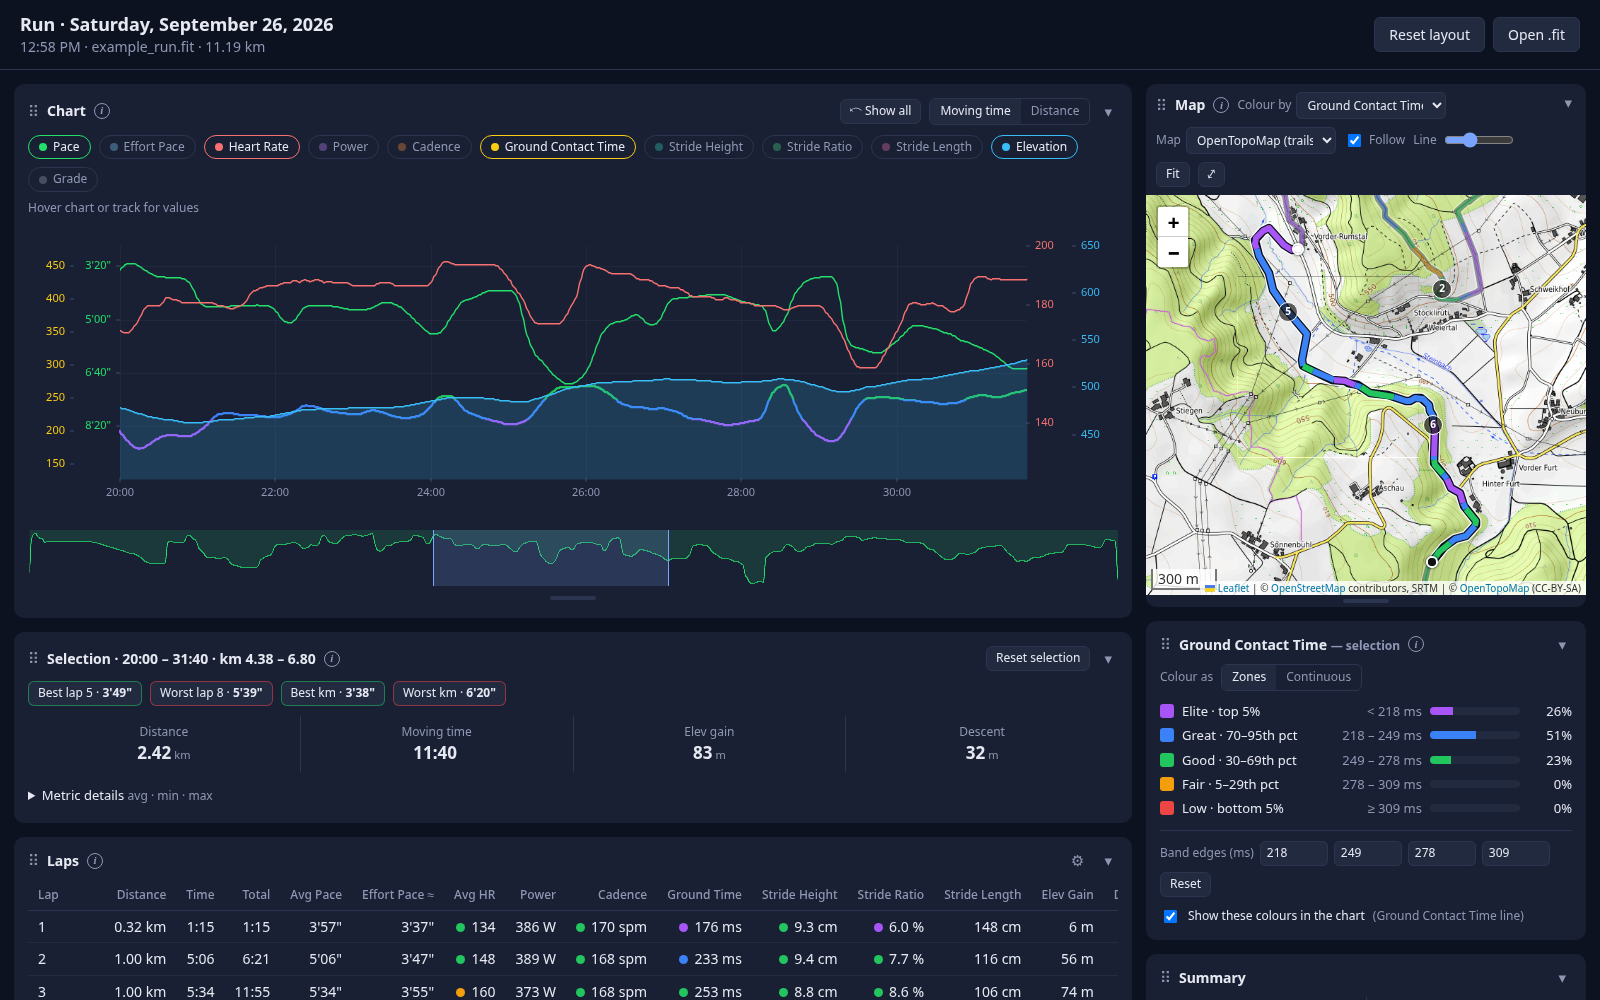
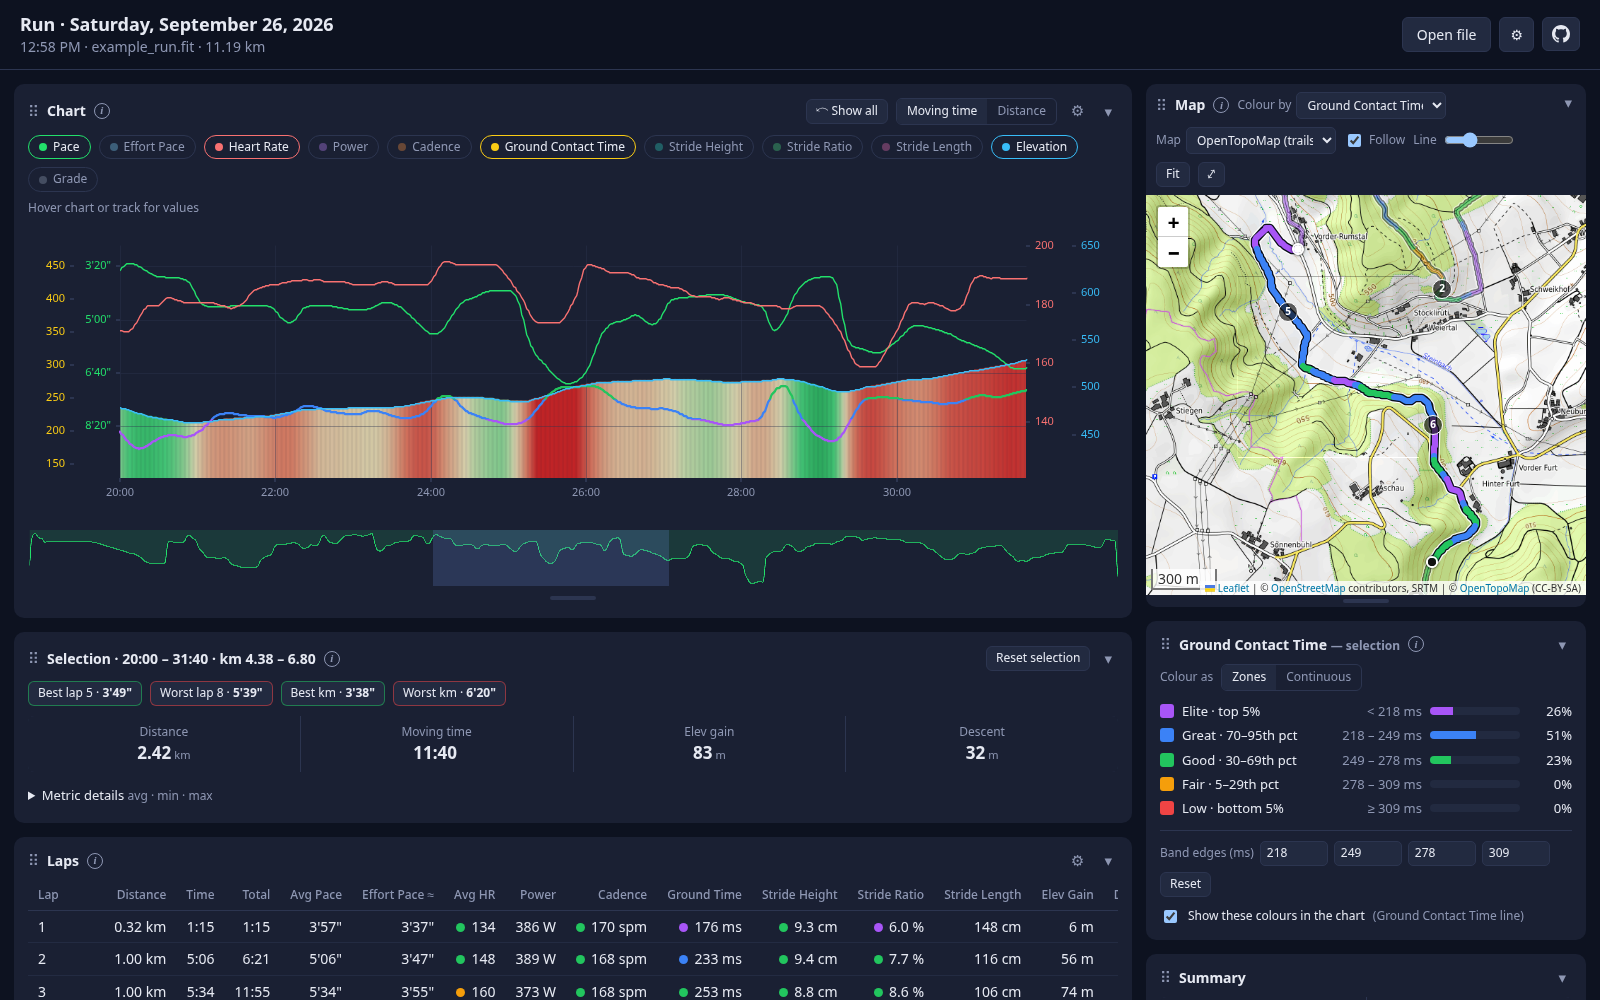
Remember last file, hover help, System theme, reset options, GitHub link
- Keep the last opened file in IndexedDB so a reload restores it;
  'Close file' in the settings menu forgets it
- Settings menu: System theme (default), reset layout / reset all settings
- Unified hover help on controls, replacing permanent explanatory text
- Metric descriptions on hover; pace or speed chosen by sport (Auto)
- GitHub link in the header
- Refresh README screenshots (dark and light)

diff --git a/fitfileplus.html b/fitfileplus.html
@@ -837,6 +837,8 @@ header select { padding: 7px 8px; border-radius: 6px; }
 #chipTip div { margin-top: 4px; } #chipTip .hint { font-size: 11px; }
 #setMenu .btn { align-self: flex-start; margin-top: 4px; }
 #chipTip { max-width: 320px; }
+.ghlink { display: inline-flex; align-items: center; padding: 7px 9px; text-decoration: none; }
+.ghlink svg { display: block; }
 </style>
 </head>
 <body>
@@ -845,8 +847,9 @@ header select { padding: 7px 8px; border-radius: 6px; }
     <div id="actName">FitFilePlus</div>
     <div id="actSub" class="muted">Drop a .fit, .gpx, .tcx or .kml file anywhere on this page</div>
   </div>
-  <div class="row"><span class="hastip"><label class="btn">Open file<input id="fileInput" type="file" accept=".fit,.gpx,.tcx,.kml,.xml" hidden></label><span class="tip"><span class="tb"><b>Supported files</b><br><b>.fit</b> — best choice. The only format with running-form metrics (ground contact time, stride height, stride ratio, L/R balance), power, laps and pauses exactly as the watch recorded them.<br><b>.tcx</b> — track, elevation, heart rate, cadence and laps.<br><b>.gpx</b> — track, elevation and time; heart rate and cadence if the exporter added them. No laps.<br><b>.kml</b> — track shape and elevation only, usually no timestamps (so no pace or durations).<br><br>Whatever a file contains is shown; the rest is hidden. Drop a file anywhere on the page or use <b>Open file</b>. Files are read in your browser and never uploaded.<br><br><b>Settings</b> (layout, panel sizes, collapsed panels, chart metrics, colours, band edges, map choice) are remembered in this browser. Reset them from the ⚙ menu.</span></span></span>
-  <span class="menuwrap"><button class="btn" id="setGear" title="Settings" aria-label="Settings">⚙</button><div class="menu" id="setMenu" hidden><div class="mh">Theme</div><select id="themeSel" title="Colour theme. System follows the light / dark setting of your device." aria-label="Colour theme"><option value="system">System</option><option value="dark">Dark</option><option value="black">Black</option><option value="light">Light</option></select><div class="mh">Units</div><div class="seg"><button data-u="imp" data-v="false" title="Kilometres, metres, °C; pace in min/km or speed in km/h">Metric</button><button data-u="imp" data-v="true" title="Miles, feet, °F; pace in min/mi or speed in mph. Running-form metrics stay in cm and ms.">Imperial</button></div><div class="mh">Show as</div><div class="seg"><button data-u="mode" data-v="auto" id="autoBtn">Auto</button><button data-u="mode" data-v="pace" title="Always show pace (time per km or mile)">Pace</button><button data-u="mode" data-v="speed" title="Always show speed (km/h or mph)">Speed</button></div><div class="mh">Reset</div><button class="btn small" id="resetLayout" title="Restore default panel sizes, positions and collapsed state. Other settings are kept.">Reset layout</button><button class="btn small" id="resetAll" title="Restore every setting to its default: layout, theme, units, chart metrics, smoothing, colours and colour maps, band edges, map choice, lap table columns. The loaded activity stays open.">Reset all settings</button></div></span></div>
+  <div class="row"><span class="hastip"><label class="btn">Open file<input id="fileInput" type="file" accept=".fit,.gpx,.tcx,.kml,.xml" hidden></label><span class="tip"><span class="tb"><b>Supported files</b><br><b>.fit</b> — best choice. The only format with running-form metrics (ground contact time, stride height, stride ratio, L/R balance), power, laps and pauses exactly as the watch recorded them.<br><b>.tcx</b> — track, elevation, heart rate, cadence and laps.<br><b>.gpx</b> — track, elevation and time; heart rate and cadence if the exporter added them. No laps.<br><b>.kml</b> — track shape and elevation only, usually no timestamps (so no pace or durations).<br><br>Whatever a file contains is shown; the rest is hidden. Drop a file anywhere on the page or use <b>Open file</b>. Files are read in your browser and never uploaded. The last opened file is remembered in this browser, so reloading the page brings it back (⚙ → Close file forgets it).<br><br><b>Settings</b> (layout, panel sizes, collapsed panels, chart metrics, colours, band edges, map choice) are remembered in this browser. Reset them from the ⚙ menu.</span></span></span>
+  <span class="menuwrap"><button class="btn" id="setGear" title="Settings" aria-label="Settings">⚙</button><div class="menu" id="setMenu" hidden><div class="mh">Theme</div><select id="themeSel" title="Colour theme. System follows the light / dark setting of your device." aria-label="Colour theme"><option value="system">System</option><option value="dark">Dark</option><option value="black">Black</option><option value="light">Light</option></select><div class="mh">Units</div><div class="seg"><button data-u="imp" data-v="false" title="Kilometres, metres, °C; pace in min/km or speed in km/h">Metric</button><button data-u="imp" data-v="true" title="Miles, feet, °F; pace in min/mi or speed in mph. Running-form metrics stay in cm and ms.">Imperial</button></div><div class="mh">Show as</div><div class="seg"><button data-u="mode" data-v="auto" id="autoBtn">Auto</button><button data-u="mode" data-v="pace" title="Always show pace (time per km or mile)">Pace</button><button data-u="mode" data-v="speed" title="Always show speed (km/h or mph)">Speed</button></div><div class="mh">File</div><button class="btn small" id="closeFile" hidden title="Close the activity and forget it. Otherwise the last opened file is kept in this browser and reappears when the page is reloaded.">Close file</button><div class="mh">Reset</div><button class="btn small" id="resetLayout" title="Restore default panel sizes, positions and collapsed state. Other settings are kept.">Reset layout</button><button class="btn small" id="resetAll" title="Restore every setting to its default: layout, theme, units, chart metrics, smoothing, colours and colour maps, band edges, map choice, lap table columns. The loaded activity stays open.">Reset all settings</button></div></span>
+  <a class="btn ghlink" href="https://github.com/mandulaj/FitFilePlus" target="_blank" rel="noopener" title="Source code and documentation on GitHub" aria-label="FitFilePlus on GitHub"><svg viewBox="0 0 16 16" width="18" height="18" aria-hidden="true"><path fill="currentColor" d="M8 0C3.58 0 0 3.58 0 8c0 3.54 2.29 6.53 5.47 7.59.4.07.55-.17.55-.38 0-.19-.01-.82-.01-1.49-2.01.37-2.53-.49-2.69-.94-.09-.23-.48-.94-.82-1.13-.28-.15-.68-.52-.01-.53.63-.01 1.08.58 1.23.82.72 1.21 1.87.87 2.33.66.07-.52.28-.87.51-1.07-1.78-.2-3.64-.89-3.64-3.95 0-.87.31-1.59.82-2.15-.08-.2-.36-1.02.08-2.12 0 0 .67-.21 2.2.82.64-.18 1.32-.27 2-.27.68 0 1.36.09 2 .27 1.53-1.04 2.2-.82 2.2-.82.44 1.1.16 1.92.08 2.12.51.56.82 1.27.82 2.15 0 3.07-1.87 3.75-3.65 3.95.29.25.54.73.54 1.48 0 1.07-.01 1.93-.01 2.2 0 .21.15.46.55.38A8.013 8.013 0 0016 8c0-4.42-3.58-8-8-8z"/></svg></a></div>
 </header>
 
 <div id="empty">
@@ -2496,11 +2499,22 @@ var uPlot=function(){"use strict";const e="u-off",l="u-label",t="width",n="heigh
     ab.dataset.tip = 'Chosen by sport: pace for running, walking, hiking, swimming; speed for cycling, skiing and similar.' + (A ? ` This ${(SPORT_NAMES[U.sport] || 'activity').toLowerCase()}: ${U.speed ? 'speed' : 'pace'}.` : '');
   }
 
-  let lastFile = null; // raw bytes of the loaded file, to reopen it after "Reset all settings"
-  function load(buf, name) {
+  // The last opened file is kept in the browser (IndexedDB: binary-safe, no practical size limit) so a
+  // reload brings it straight back. It never leaves the machine; "Close file" forgets it.
+  const fileDB = {
+    open() { return new Promise((res, rej) => { const r = indexedDB.open('fitfileplus', 1); r.onupgradeneeded = () => r.result.createObjectStore('kv'); r.onsuccess = () => res(r.result); r.onerror = () => rej(r.error); }); },
+    tx(mode, fn) { return this.open().then((db) => new Promise((res, rej) => { const t = db.transaction('kv', mode), q = fn(t.objectStore('kv')); t.oncomplete = () => { db.close(); res(q && q.result); }; t.onerror = t.onabort = () => { db.close(); rej(t.error); }; })); },
+    set(v) { return this.tx('readwrite', (st) => st.put(v, 'last')); },
+    get() { return this.tx('readonly', (st) => st.get('last')); },
+    del() { return this.tx('readwrite', (st) => st.delete('last')); },
+  };
+  let lastFile = null; // raw bytes of the loaded file
+  function load(buf, name, opts) {
     let act;
     try { const fit = dropFields(parseAny(buf)); registerExtras(fit); resolveSpeed(fit.session.sport == null ? null : fit.session.sport); applyUnits(); syncUnits(); act = process(fit, name); } catch (e) { console.error(e); toast('Could not read file: ' + e.message); return; }
     lastFile = { buf, name };
+    if (!(opts && opts.noSave)) { try { fileDB.set({ name, buf, saved: Date.now() }).catch(() => {}); } catch (e) { /* storage unavailable */ } }
+    $('closeFile').hidden = false;
     A = act; S.sel = null; S.preview = null; S.hover = null; lapUI.sort = null; savedView = null; followTo = null;
     syncUnits(); // now that an activity is loaded, the Auto tooltip can say what it resolved to
     $('empty').hidden = true; $('app').hidden = false;
@@ -2739,11 +2753,17 @@ var uPlot=function(){"use strict";const e="u-off",l="u-label",t="width",n="heigh
     const re = sessionStorage.getItem('fitfileplus.reopen');
     if (re) { sessionStorage.removeItem('fitfileplus.reopen'); const o = JSON.parse(re); load(b64ToBuf(o.data), o.name); }
   } catch (e) { /* ignore */ }
+  $('closeFile').onclick = () => {
+    const done = () => location.reload();
+    try { fileDB.del().then(done, done); } catch (e) { done(); }
+  };
   if (!A && window.FITFILEPLUS_EMBED) {
     const bin = atob(window.FITFILEPLUS_EMBED.data), u8 = new Uint8Array(bin.length);
     for (let i = 0; i < bin.length; i++) u8[i] = bin.charCodeAt(i);
-    load(u8.buffer, window.FITFILEPLUS_EMBED.name);
+    load(u8.buffer, window.FITFILEPLUS_EMBED.name, { noSave: true });
   }
+  // nothing loaded yet: bring back the file from the previous visit
+  if (!A) { try { fileDB.get().then((v) => { if (v && v.buf && !A) load(v.buf, v.name, { noSave: true }); }, () => {}); } catch (e) { /* storage unavailable */ } }
 })();
 </script>
 </body>

diff --git a/src/index.html b/src/index.html
@@ -15,8 +15,9 @@
     <div id="actName">FitFilePlus</div>
     <div id="actSub" class="muted">Drop a .fit, .gpx, .tcx or .kml file anywhere on this page</div>
   </div>
-  <div class="row"><span class="hastip"><label class="btn">Open file<input id="fileInput" type="file" accept=".fit,.gpx,.tcx,.kml,.xml" hidden></label><span class="tip"><span class="tb"><b>Supported files</b><br><b>.fit</b> — best choice. The only format with running-form metrics (ground contact time, stride height, stride ratio, L/R balance), power, laps and pauses exactly as the watch recorded them.<br><b>.tcx</b> — track, elevation, heart rate, cadence and laps.<br><b>.gpx</b> — track, elevation and time; heart rate and cadence if the exporter added them. No laps.<br><b>.kml</b> — track shape and elevation only, usually no timestamps (so no pace or durations).<br><br>Whatever a file contains is shown; the rest is hidden. Drop a file anywhere on the page or use <b>Open file</b>. Files are read in your browser and never uploaded.<br><br><b>Settings</b> (layout, panel sizes, collapsed panels, chart metrics, colours, band edges, map choice) are remembered in this browser. Reset them from the ⚙ menu.</span></span></span>
-  <span class="menuwrap"><button class="btn" id="setGear" title="Settings" aria-label="Settings">⚙</button><div class="menu" id="setMenu" hidden><div class="mh">Theme</div><select id="themeSel" title="Colour theme. System follows the light / dark setting of your device." aria-label="Colour theme"><option value="system">System</option><option value="dark">Dark</option><option value="black">Black</option><option value="light">Light</option></select><div class="mh">Units</div><div class="seg"><button data-u="imp" data-v="false" title="Kilometres, metres, °C; pace in min/km or speed in km/h">Metric</button><button data-u="imp" data-v="true" title="Miles, feet, °F; pace in min/mi or speed in mph. Running-form metrics stay in cm and ms.">Imperial</button></div><div class="mh">Show as</div><div class="seg"><button data-u="mode" data-v="auto" id="autoBtn">Auto</button><button data-u="mode" data-v="pace" title="Always show pace (time per km or mile)">Pace</button><button data-u="mode" data-v="speed" title="Always show speed (km/h or mph)">Speed</button></div><div class="mh">Reset</div><button class="btn small" id="resetLayout" title="Restore default panel sizes, positions and collapsed state. Other settings are kept.">Reset layout</button><button class="btn small" id="resetAll" title="Restore every setting to its default: layout, theme, units, chart metrics, smoothing, colours and colour maps, band edges, map choice, lap table columns. The loaded activity stays open.">Reset all settings</button></div></span></div>
+  <div class="row"><span class="hastip"><label class="btn">Open file<input id="fileInput" type="file" accept=".fit,.gpx,.tcx,.kml,.xml" hidden></label><span class="tip"><span class="tb"><b>Supported files</b><br><b>.fit</b> — best choice. The only format with running-form metrics (ground contact time, stride height, stride ratio, L/R balance), power, laps and pauses exactly as the watch recorded them.<br><b>.tcx</b> — track, elevation, heart rate, cadence and laps.<br><b>.gpx</b> — track, elevation and time; heart rate and cadence if the exporter added them. No laps.<br><b>.kml</b> — track shape and elevation only, usually no timestamps (so no pace or durations).<br><br>Whatever a file contains is shown; the rest is hidden. Drop a file anywhere on the page or use <b>Open file</b>. Files are read in your browser and never uploaded. The last opened file is remembered in this browser, so reloading the page brings it back (⚙ → Close file forgets it).<br><br><b>Settings</b> (layout, panel sizes, collapsed panels, chart metrics, colours, band edges, map choice) are remembered in this browser. Reset them from the ⚙ menu.</span></span></span>
+  <span class="menuwrap"><button class="btn" id="setGear" title="Settings" aria-label="Settings">⚙</button><div class="menu" id="setMenu" hidden><div class="mh">Theme</div><select id="themeSel" title="Colour theme. System follows the light / dark setting of your device." aria-label="Colour theme"><option value="system">System</option><option value="dark">Dark</option><option value="black">Black</option><option value="light">Light</option></select><div class="mh">Units</div><div class="seg"><button data-u="imp" data-v="false" title="Kilometres, metres, °C; pace in min/km or speed in km/h">Metric</button><button data-u="imp" data-v="true" title="Miles, feet, °F; pace in min/mi or speed in mph. Running-form metrics stay in cm and ms.">Imperial</button></div><div class="mh">Show as</div><div class="seg"><button data-u="mode" data-v="auto" id="autoBtn">Auto</button><button data-u="mode" data-v="pace" title="Always show pace (time per km or mile)">Pace</button><button data-u="mode" data-v="speed" title="Always show speed (km/h or mph)">Speed</button></div><div class="mh">File</div><button class="btn small" id="closeFile" hidden title="Close the activity and forget it. Otherwise the last opened file is kept in this browser and reappears when the page is reloaded.">Close file</button><div class="mh">Reset</div><button class="btn small" id="resetLayout" title="Restore default panel sizes, positions and collapsed state. Other settings are kept.">Reset layout</button><button class="btn small" id="resetAll" title="Restore every setting to its default: layout, theme, units, chart metrics, smoothing, colours and colour maps, band edges, map choice, lap table columns. The loaded activity stays open.">Reset all settings</button></div></span>
+  <a class="btn ghlink" href="https://github.com/mandulaj/FitFilePlus" target="_blank" rel="noopener" title="Source code and documentation on GitHub" aria-label="FitFilePlus on GitHub"><svg viewBox="0 0 16 16" width="18" height="18" aria-hidden="true"><path fill="currentColor" d="M8 0C3.58 0 0 3.58 0 8c0 3.54 2.29 6.53 5.47 7.59.4.07.55-.17.55-.38 0-.19-.01-.82-.01-1.49-2.01.37-2.53-.49-2.69-.94-.09-.23-.48-.94-.82-1.13-.28-.15-.68-.52-.01-.53.63-.01 1.08.58 1.23.82.72 1.21 1.87.87 2.33.66.07-.52.28-.87.51-1.07-1.78-.2-3.64-.89-3.64-3.95 0-.87.31-1.59.82-2.15-.08-.2-.36-1.02.08-2.12 0 0 .67-.21 2.2.82.64-.18 1.32-.27 2-.27.68 0 1.36.09 2 .27 1.53-1.04 2.2-.82 2.2-.82.44 1.1.16 1.92.08 2.12.51.56.82 1.27.82 2.15 0 3.07-1.87 3.75-3.65 3.95.29.25.54.73.54 1.48 0 1.07-.01 1.93-.01 2.2 0 .21.15.46.55.38A8.013 8.013 0 0016 8c0-4.42-3.58-8-8-8z"/></svg></a></div>
 </header>
 
 <div id="empty">

diff --git a/src/app.js b/src/app.js
@@ -1132,11 +1132,22 @@
     ab.dataset.tip = 'Chosen by sport: pace for running, walking, hiking, swimming; speed for cycling, skiing and similar.' + (A ? ` This ${(SPORT_NAMES[U.sport] || 'activity').toLowerCase()}: ${U.speed ? 'speed' : 'pace'}.` : '');
   }
 
-  let lastFile = null; // raw bytes of the loaded file, to reopen it after "Reset all settings"
-  function load(buf, name) {
+  // The last opened file is kept in the browser (IndexedDB: binary-safe, no practical size limit) so a
+  // reload brings it straight back. It never leaves the machine; "Close file" forgets it.
+  const fileDB = {
+    open() { return new Promise((res, rej) => { const r = indexedDB.open('fitfileplus', 1); r.onupgradeneeded = () => r.result.createObjectStore('kv'); r.onsuccess = () => res(r.result); r.onerror = () => rej(r.error); }); },
+    tx(mode, fn) { return this.open().then((db) => new Promise((res, rej) => { const t = db.transaction('kv', mode), q = fn(t.objectStore('kv')); t.oncomplete = () => { db.close(); res(q && q.result); }; t.onerror = t.onabort = () => { db.close(); rej(t.error); }; })); },
+    set(v) { return this.tx('readwrite', (st) => st.put(v, 'last')); },
+    get() { return this.tx('readonly', (st) => st.get('last')); },
+    del() { return this.tx('readwrite', (st) => st.delete('last')); },
+  };
+  let lastFile = null; // raw bytes of the loaded file
+  function load(buf, name, opts) {
     let act;
     try { const fit = dropFields(parseAny(buf)); registerExtras(fit); resolveSpeed(fit.session.sport == null ? null : fit.session.sport); applyUnits(); syncUnits(); act = process(fit, name); } catch (e) { console.error(e); toast('Could not read file: ' + e.message); return; }
     lastFile = { buf, name };
+    if (!(opts && opts.noSave)) { try { fileDB.set({ name, buf, saved: Date.now() }).catch(() => {}); } catch (e) { /* storage unavailable */ } }
+    $('closeFile').hidden = false;
     A = act; S.sel = null; S.preview = null; S.hover = null; lapUI.sort = null; savedView = null; followTo = null;
     syncUnits(); // now that an activity is loaded, the Auto tooltip can say what it resolved to
     $('empty').hidden = true; $('app').hidden = false;
@@ -1375,9 +1386,15 @@
     const re = sessionStorage.getItem('fitfileplus.reopen');
     if (re) { sessionStorage.removeItem('fitfileplus.reopen'); const o = JSON.parse(re); load(b64ToBuf(o.data), o.name); }
   } catch (e) { /* ignore */ }
+  $('closeFile').onclick = () => {
+    const done = () => location.reload();
+    try { fileDB.del().then(done, done); } catch (e) { done(); }
+  };
   if (!A && window.FITFILEPLUS_EMBED) {
     const bin = atob(window.FITFILEPLUS_EMBED.data), u8 = new Uint8Array(bin.length);
     for (let i = 0; i < bin.length; i++) u8[i] = bin.charCodeAt(i);
-    load(u8.buffer, window.FITFILEPLUS_EMBED.name);
+    load(u8.buffer, window.FITFILEPLUS_EMBED.name, { noSave: true });
   }
+  // nothing loaded yet: bring back the file from the previous visit
+  if (!A) { try { fileDB.get().then((v) => { if (v && v.buf && !A) load(v.buf, v.name, { noSave: true }); }, () => {}); } catch (e) { /* storage unavailable */ } }
 })();

diff --git a/src/style.css b/src/style.css
@@ -167,3 +167,5 @@ header select { padding: 7px 8px; border-radius: 6px; }
 #chipTip div { margin-top: 4px; } #chipTip .hint { font-size: 11px; }
 #setMenu .btn { align-self: flex-start; margin-top: 4px; }
 #chipTip { max-width: 320px; }
+.ghlink { display: inline-flex; align-items: center; padding: 7px 9px; text-decoration: none; }
+.ghlink svg { display: block; }

diff --git a/README.md b/README.md
@@ -10,6 +10,12 @@ No install, no account, no server. To use it offline, download [`fitfileplus.htm
 
 [![FitFilePlus: chart, map coloured by ground contact time, selection stats and lap table](.assets/preview.png)](https://mandulaj.github.io/FitFilePlus/)
 
+<details><summary>Light theme</summary>
+
+![FitFilePlus in the light theme](.assets/preview-light.png)
+
+</details>
+
 ## Features
 
 - **Everything is linked.** Drag across the chart, the overview strip, lap rows, or along the track on the map: the other views, the stats and the legend follow live.
@@ -67,6 +73,7 @@ Stride length, leg spring stiffness, pace and power have no universal reference 
 ## Privacy
 
 - The activity file is parsed in the browser. Nothing is uploaded.
+- The last opened file is kept in the browser's IndexedDB so a reload shows it again; "Close file" in the ⚙ menu removes it.
 - Map tiles are fetched from the selected tile provider, which therefore sees which area you look at. Choose "No basemap" to avoid any network request.
 - Settings (layout, band edges, map choice, optional Thunderforest key) are kept in the browser's `localStorage`.
 
